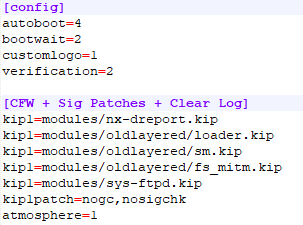
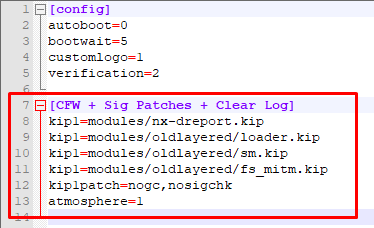
bugfix

Changed region(s): [[0.0, 0.0, 1.0, 1.0]]

diff --git a/_pages/atmos/atmos.md b/_pages/atmos/atmos.md
@@ -34,7 +34,6 @@ author_profile: true
 	kip1=modules/oldlayered/loader.kip
 	kip1=modules/oldlayered/sm.kip
 	kip1=modules/oldlayered/fs_mitm.kip
-	kip1=modules/sys-ftpd.kip
 	kip1patch=nogc,nosigchk
 	atmosphere=1
 {% endhighlight %}
